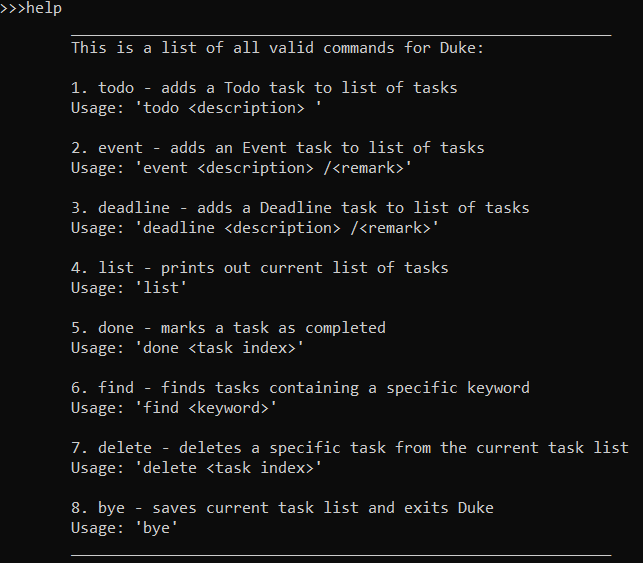
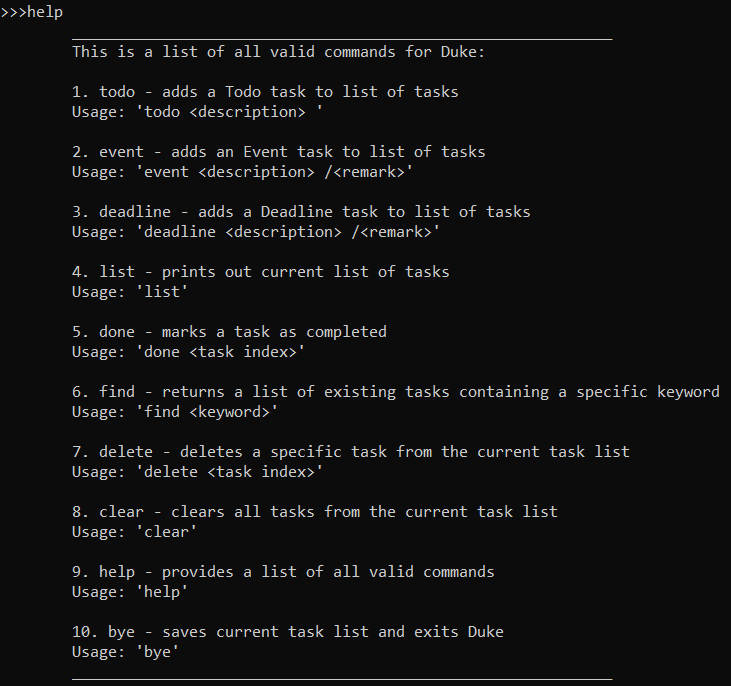
Updated find functionality: ensure consistency between results list and original list; updated JavaDocs and README.md

diff --git a/src/main/java/command/Command.java b/src/main/java/command/Command.java
@@ -294,22 +294,25 @@ public class Command {
 
     /**
      * This method searches the Tasks in the {@link TaskList} object input for a keyword. It filters out
-     * Tasks containing the search keyword and prints them.
+     * Tasks containing the search keyword and prints them, following their index in the original TaskList.
      * @param listInput the TaskList object to be searched
      * @param uiInput helps to display filtered Tasks
      * @param searchQuery the keyword to be searched for in Tasks
      */
     private void findTasksByKeyword(TaskList listInput, Ui uiInput, String searchQuery) {
-        int resultNumber = 1;
-        ArrayList<Task> searchResults = listInput.findSearchResults(listInput.getTaskList(), searchQuery);
+        int resultIndex = 0;
+        ArrayList<Integer> searchResultIndexes = new ArrayList<>();
+        ArrayList<Task> searchResults = listInput.findSearchResults(listInput.getTaskList(),
+                searchQuery, searchResultIndexes);
 
         if (Integer.valueOf(searchResults.size()).equals(Integer.valueOf(0))) {
             uiInput.displayMessage(NO_MATCHING_SEARCH_RESULTS_MESSAGE);
         } else {
             String searchOutput = MATCHING_SEARCH_RESULTS_INTRO_MESSAGE + LS;
             for (Task result : searchResults) {
-                searchOutput += "\t"+ Integer.toString(resultNumber) + "." + result.toString() + LS;
-                resultNumber++;
+                searchOutput += "\t"+ Integer.toString(Integer.valueOf(searchResultIndexes.get(resultIndex))
+                                + DISPLAYED_INDEX_OFFSET) + "." + result.toString() + LS;
+                resultIndex++;
             }
             uiInput.displayMessage(searchOutput);
         }

diff --git a/src/main/java/tasklist/TaskList.java b/src/main/java/tasklist/TaskList.java
@@ -56,10 +56,23 @@ public class TaskList {
         return this.tasks.remove(taskNumber);
     }
 
-    public ArrayList<Task> findSearchResults(ArrayList<Task> taskListToSearch, String searchKeyword) {
+    /**
+     * This methods iterates through a TaskList and finds the Tasks containing a given search keyword.
+     * It is used primarily in the findTasksByKeyword method of the FIND command.
+     * @param taskListToSearch the TaskList to be searched
+     * @param searchKeyword the keyword to be searched for
+     * @param searchResultIndexInput if a Task is added, the index of that Task in the actual input is stored in this ArrayList of Integers.
+     * @return the ArrayList of Tasks containing the search keyword.
+     * @see command.Command#findTasksByKeyword
+     */
+    public ArrayList<Task> findSearchResults(ArrayList<Task> taskListToSearch,
+                                             String searchKeyword, ArrayList<Integer> searchResultIndexInput) {
         ArrayList<Task> matchingResults = new ArrayList<>();
         for (Task task : taskListToSearch) {
-            task.addIfContainsKeyword(matchingResults, searchKeyword);
+            boolean doesTaskContainSearchValue = task.addIfContainsKeyword(matchingResults, searchKeyword);
+            if (doesTaskContainSearchValue) {
+                searchResultIndexInput.add(taskListToSearch.indexOf(task));
+            }
         }
         return matchingResults;
     }

diff --git a/src/main/java/tasktype/Deadline.java b/src/main/java/tasktype/Deadline.java
@@ -50,13 +50,17 @@ public class Deadline extends Task {
      * field contains the keyword.
      * <p></p>
      * <p>This method is primarily used for the FIND command.</p>
+     * @return a boolean value indicating true if the Task was added.
      * @param searchResults a list of Tasks containing the search keyword
      * @param searchKeyword the keyword to be searched for in this Deadline object
      */
     @Override
-    public void addIfContainsKeyword(ArrayList<Task> searchResults, String searchKeyword) {
+    public boolean addIfContainsKeyword(ArrayList<Task> searchResults, String searchKeyword) {
         if (this.getDescription().contains(searchKeyword) || this.getBy().contains(searchKeyword)) {
             searchResults.add(this);
+            return true;
+        } else {
+            return false;
         }
     }
 }

diff --git a/src/main/java/tasktype/Event.java b/src/main/java/tasktype/Event.java
@@ -49,13 +49,17 @@ public class Event extends Task {
      * field contains the keyword.
      * <p></p>
      * <p>This method is primarily used for the FIND command.</p>
+     * @return a boolean value indicating true if the Task was added.
      * @param searchResults a list of Tasks containing the search keyword
      * @param searchKeyword the keyword to be searched for in this Event object
      */
     @Override
-    public void addIfContainsKeyword(ArrayList<Task> searchResults, String searchKeyword) {
+    public boolean addIfContainsKeyword(ArrayList<Task> searchResults, String searchKeyword) {
         if (this.getDescription().contains(searchKeyword) || this.getBy().contains(searchKeyword)) {
             searchResults.add(this);
+            return true;
+        } else {
+            return false;
         }
     }
 }

diff --git a/src/main/java/tasktype/Todo.java b/src/main/java/tasktype/Todo.java
@@ -42,13 +42,17 @@ public class Todo extends Task {
      * field contains the keyword.
      * <p></p>
      * <p>This method is primarily used for the FIND command.</p>
+     * @return a boolean value indicating true if the Task was added.
      * @param searchResults a list of Tasks containing the search keyword
      * @param searchKeyword the keyword to be searched for in this Todo object
      */
     @Override
-    public void addIfContainsKeyword(ArrayList<Task> searchResults, String searchKeyword) {
+    public boolean addIfContainsKeyword(ArrayList<Task> searchResults, String searchKeyword) {
         if (this.getDescription().contains(searchKeyword)) {
             searchResults.add(this);
+            return true;
+        } else {
+            return false;
         }
     }
 

diff --git a/src/main/java/tasktype/Task.java b/src/main/java/tasktype/Task.java
@@ -58,10 +58,11 @@ public abstract class Task {
      * <p></p>
      * <p>This method is primarily used for the FIND command.</p>
      * <p>View the subclasses to see how the method is overridden.</p>
+     * @return a boolean value indicating true if the Task was added.
      * @param searchResults a list of Tasks containing the search keyword
      * @param searchKeyword the keyword to be searched for in the Task
      */
-    public abstract void addIfContainsKeyword(ArrayList<Task> searchResults, String searchKeyword);
+    public abstract boolean addIfContainsKeyword(ArrayList<Task> searchResults, String searchKeyword);
 
 
 }

diff --git a/docs/README.md b/docs/README.md
@@ -84,7 +84,7 @@ Format:
  
 - Adds an event and its' event time and/or place to the list
  
-- Text that follows "_/" ( _ denoting a whitespace) will be placed in the remarks section of the event.
+- Text that follows the **first instance of "_/"** ( _ denoting a whitespace) will be placed in the remarks section of the event.
  
 - Valid `<Remark>` formats include:
     + Any String value (e.g. **Mon 4pm**) 
@@ -107,7 +107,7 @@ Format:
  
 - Adds a deadline and its' event time and/or place to the list
  
-- Text that follows **"_/"** ( _ denoting a whitespace) will be placed in the remarks section of the event.
+- Text that follows the **first instance of "_/"** ( _ denoting a whitespace) will be placed in the remarks section of the event.
  
 - Valid `<Remark>` formats include:
     + Any String value (e.g. **Mon 4pm**) 
@@ -173,7 +173,9 @@ Expected outcome (if task list is empty):
  
 ### 4.4 `find` - Find tasks that match keyword
 
-This command shows you a list of all Tasks containing a search keyword.
+This command, given a search keyword, shows you a sub-list of all Tasks containing that keyword.
+
+**NOTE:** The index of the tasks in this sub-list follows it's index in the original task list.
 
 Format:
  `find <Keyword>`
